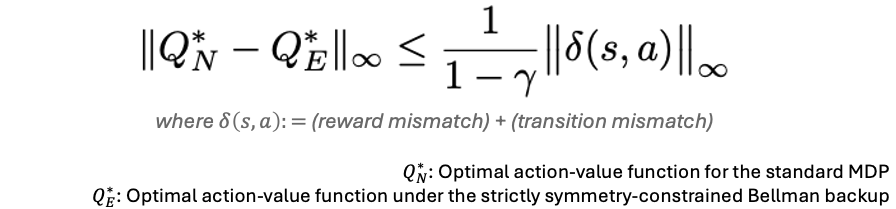
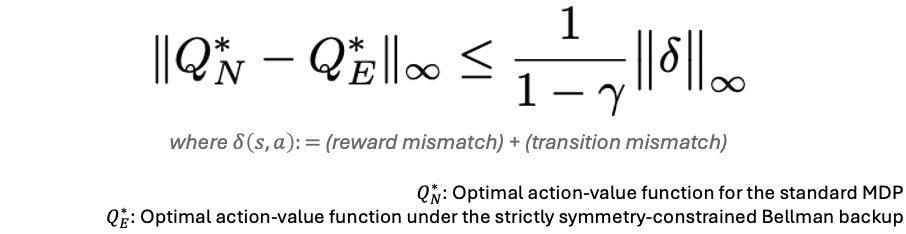
figure revised

diff --git a/index.html b/index.html
@@ -211,7 +211,7 @@
           <br>
           <h4 class="title is-4 has-text-left" style="text-align: left;">Mismatch in reward/transition amplifies over horizon</h4>
           <p align="center">
-            <img src="./static/images/Bellman.png" style="max-width: 60%;"></img>
+            <img src="./static/images/Bellman.png" style="max-width: 80%;"></img>
           </p>
           <ul>
             <li><strong>Local mismatch enters the backup.</strong> When the MDP violates group symmetry, the symmetry-aware Bellman backup differs from the standard Bellman operator due to reward/transition mismatch.</li>
@@ -242,7 +242,7 @@
           <br>
           <h4 class="title is-4 has-text-left" style="text-align: left;">PI-MDP recovers the true optimum under correct gating</h4>
           <p align="center">
-            <img src="./static/images/piBellman.png" style="max-width: 60%;"></img>
+            <img src="./static/images/piBellman.png" style="max-width: 80%;"></img>
           </p>
           <ul>
             <li><strong>PI-MDP alleviates equivariance error through selective gating.</strong> If $\lambda(s,a)=1$ on all symmetry-breaking state-action pairs, PI-MDP theoretically mitigates the error bound to zero.</li>
@@ -262,7 +262,7 @@
         <h4 class="title is-3 has-text-left" style="text-align: left; margin-top: 0;">Continuous control results</h4>
         <div class="content has-text-justified">
           <p align="center">
-            <img src="./static/images/exp_continuous.png" style="max-width: 70%;"></img>
+            <img src="./static/images/exp_continuous.png" style="max-width: 80%;"></img>
           </p>
           <ul>
             <li>We evaluate <strong>PE-SAC</strong> on continuous-control tasks. PE-SAC achieves strong sample efficiency across tasks and remains robust under symmetry-breaking.</li>
